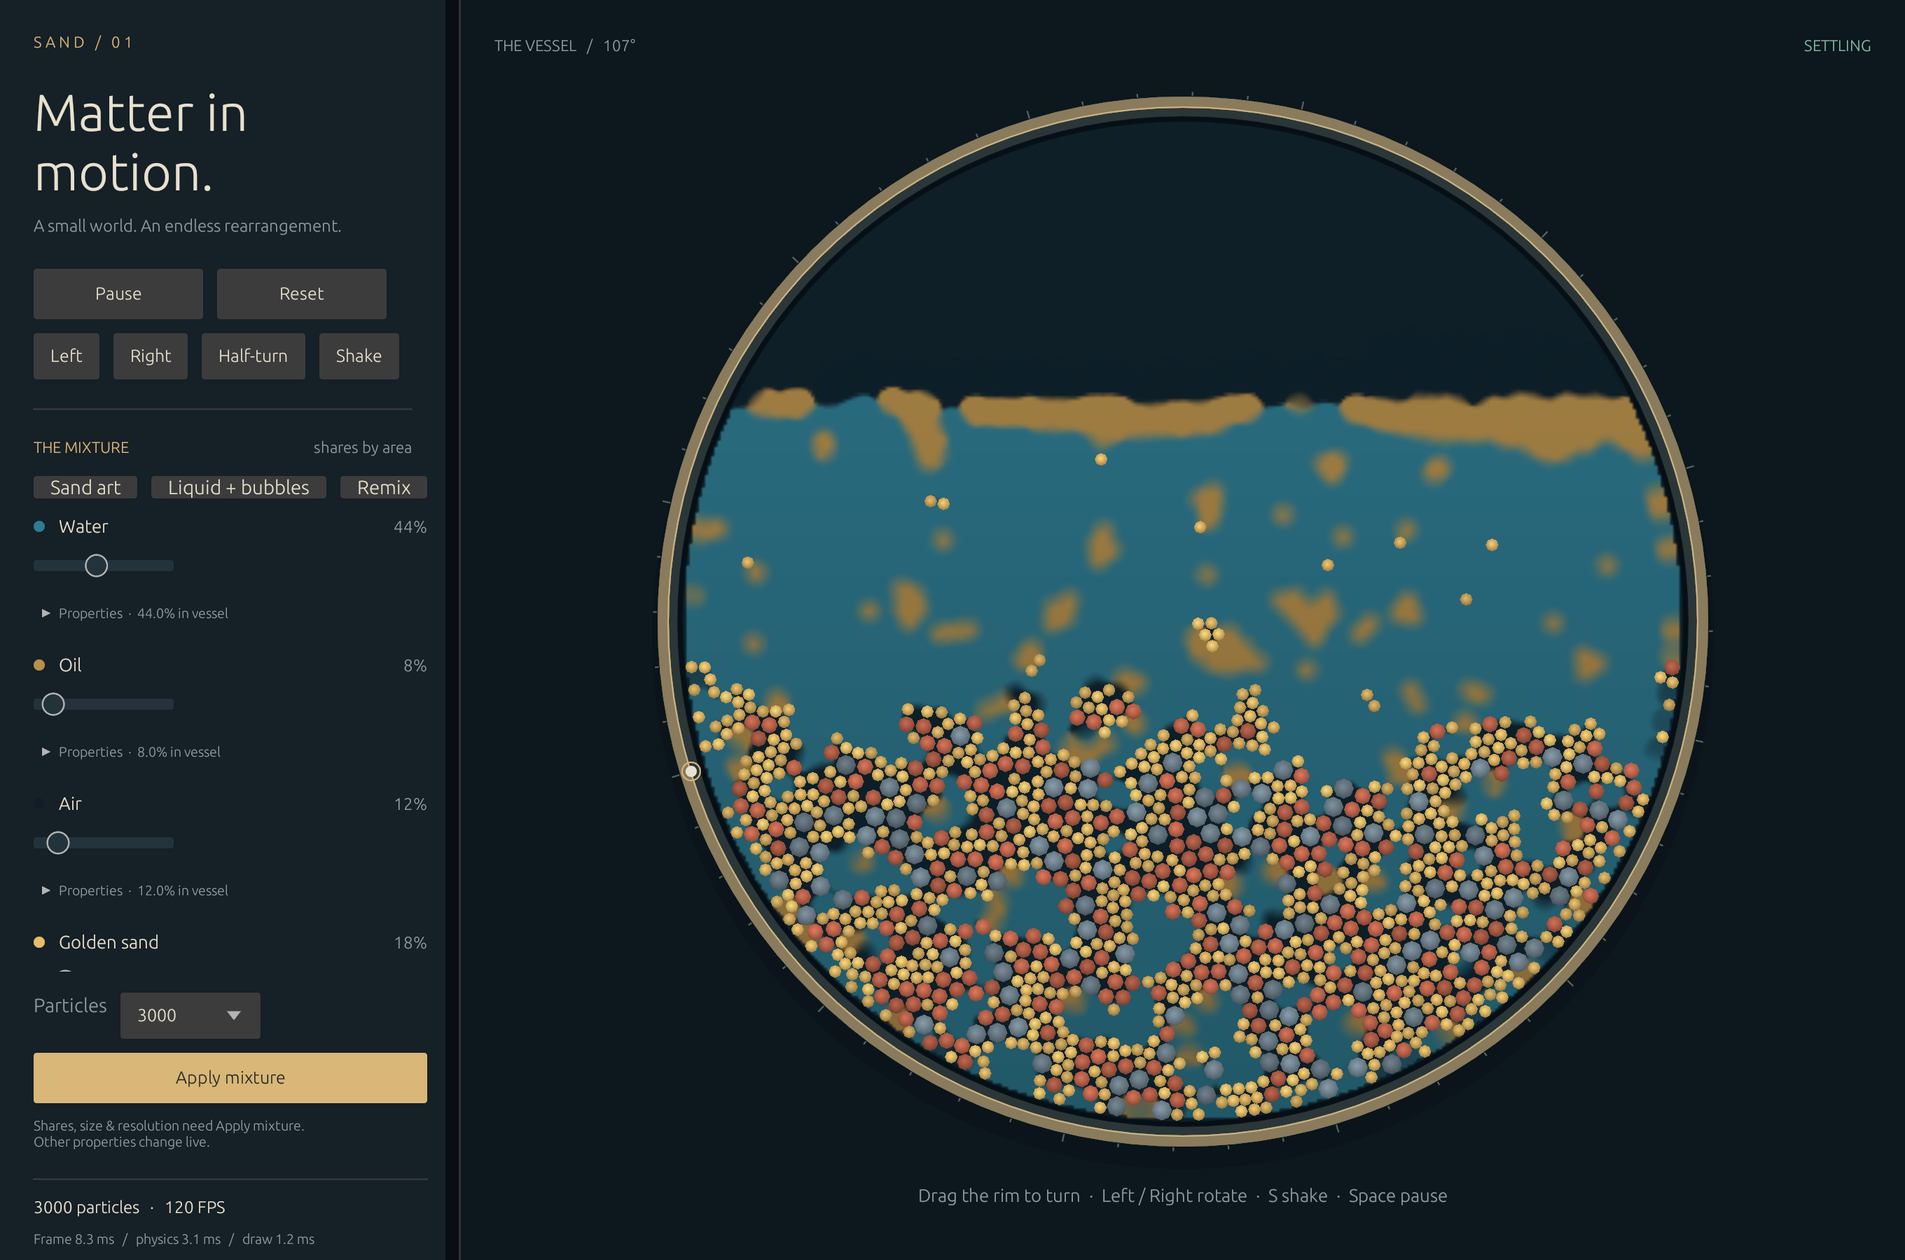
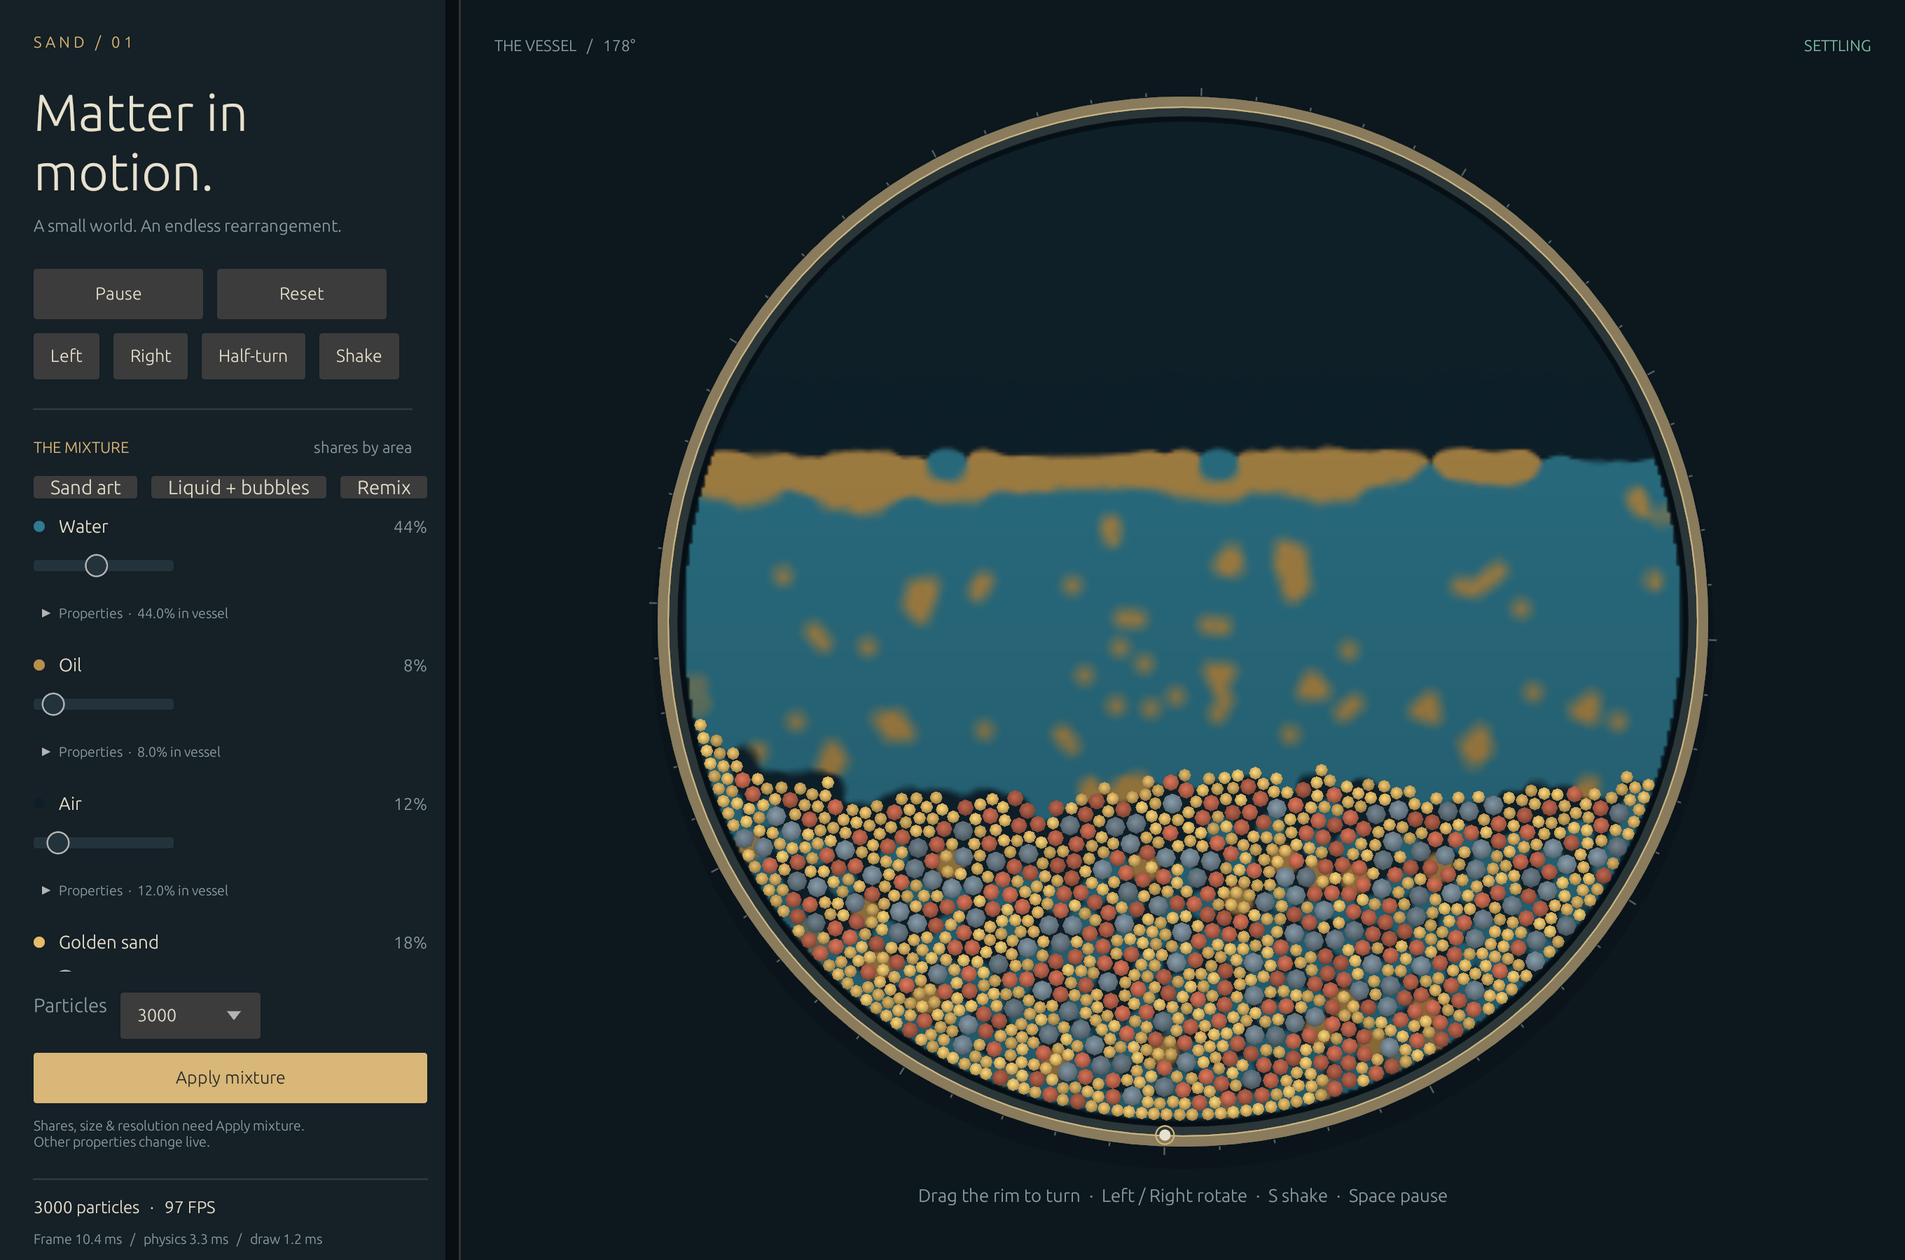
fix: decouple grains from the coarse fluid pressure lattice

diff --git a/src/simulation.rs b/src/simulation.rs
@@ -35,6 +35,7 @@ pub struct Simulation {
     pub time: f32,
     previous: Vec<Vec2>,
     inverse_mass: Vec<f32>,
+    pressure_inverse_mass: Vec<f32>,
     volume: Vec<f32>,
     density: Vec<f32>,
     gradient: Vec<Vec2>,
@@ -99,6 +100,7 @@ impl Simulation {
             time: 0.0,
             previous: Vec::new(),
             inverse_mass: Vec::new(),
+            pressure_inverse_mass: Vec::new(),
             volume: Vec::new(),
             density: Vec::new(),
             gradient: Vec::new(),
@@ -126,6 +128,7 @@ impl Simulation {
         let n = self.particles.len();
         self.previous.resize(n, Vec2::ZERO);
         self.inverse_mass.resize(n, 1.0);
+        self.pressure_inverse_mass.resize(n, 0.0);
         self.volume.resize(n, 1.0);
         self.density.resize(n, 0.0);
         self.gradient.resize(n, Vec2::ZERO);
@@ -147,6 +150,13 @@ impl Simulation {
         for (i, p) in self.particles.iter().enumerate() {
             self.volume[i] = (p.radius / self.base_radius).powi(2);
             self.inverse_mass[i] = 1.0 / (self.materials[p.material].density * self.volume[i]);
+            // Grains are immersed boundaries for the fluid pressure projection,
+            // not movable nodes of its coarse incompressibility lattice.
+            self.pressure_inverse_mass[i] = if self.materials[p.material].phase == Phase::Solid {
+                0.0
+            } else {
+                self.inverse_mass[i]
+            };
         }
     }
 
@@ -221,12 +231,17 @@ impl Simulation {
             let env = self.environment[i];
             if env.y > 0.0001 {
                 let rho = self.materials[self.particles[i].material].density;
-                // Density constraints already support the mixture hydrostatically.
-                // Add a *contrast* force, zero at equal density, rather than a
-                // second Archimedes lift that would make dense sand float.
-                let contrast =
-                    (1.0 - env.x / env.y / rho).clamp(-2.0, 1.0) * (env.y / 0.8).min(1.0);
-                self.buoyancy[i] = GRAVITY * contrast;
+                let submerged = (env.y / 0.8).min(1.0);
+                let density_ratio = (env.x / env.y / rho).min(3.0);
+                self.buoyancy[i] =
+                    if self.materials[self.particles[i].material].phase == Phase::Solid {
+                        // The grain no longer receives a second hydrostatic lift
+                        // from fluid positional projection: apply Archimedes here.
+                        -GRAVITY * density_ratio * submerged
+                    } else {
+                        // Fluid phases remain part of the shared pressure solve.
+                        GRAVITY * (1.0 - density_ratio).clamp(-2.0, 1.0) * submerged
+                    };
                 self.acceleration[i] += self.buoyancy[i];
             }
         }
@@ -299,8 +314,8 @@ impl Simulation {
             let gj = -grad * self.volume[i];
             self.gradient[i] += gi;
             self.gradient[j] += gj;
-            self.denominator[i] += self.inverse_mass[j] * gi.length_squared();
-            self.denominator[j] += self.inverse_mass[i] * gj.length_squared();
+            self.denominator[i] += self.pressure_inverse_mass[j] * gi.length_squared();
+            self.denominator[j] += self.pressure_inverse_mass[i] * gj.length_squared();
         }
         for i in 0..self.particles.len() {
             let phase = self.materials[self.particles[i].material].phase;
@@ -314,7 +329,7 @@ impl Simulation {
             };
             self.lambda[i] = -stiffness * c
                 / (self.denominator[i]
-                    + self.inverse_mass[i] * self.gradient[i].length_squared()
+                    + self.pressure_inverse_mass[i] * self.gradient[i].length_squared()
                     + 80.0);
         }
         for &(i, j) in &self.pairs {
@@ -322,8 +337,8 @@ impl Simulation {
             let q = (1.0 - r / self.support).max(0.0);
             let grad = direction * (-2.0 * q / self.support / rest);
             let f = grad * (self.lambda[i] * self.volume[j] + self.lambda[j] * self.volume[i]);
-            self.delta[i] += f * self.inverse_mass[i];
-            self.delta[j] -= f * self.inverse_mass[j];
+            self.delta[i] += f * self.pressure_inverse_mass[i];
+            self.delta[j] -= f * self.pressure_inverse_mass[j];
             let a = &self.materials[self.particles[i].material];
             let b = &self.materials[self.particles[j].material];
             if self.particles[i].material == self.particles[j].material
@@ -356,20 +371,24 @@ impl Simulation {
             let (i, j) = self.pairs[k];
             let a = self.materials[self.particles[i].material].phase;
             let b = self.materials[self.particles[j].material].phase;
-            let factor = if a == Phase::Solid && b == Phase::Solid {
-                1.0
-            } else if a == Phase::Solid || b == Phase::Solid {
-                0.8
+            let both_grains = a == Phase::Solid && b == Phase::Solid;
+            let (contact_distance, wi) = if both_grains {
+                (
+                    self.particles[i].radius + self.particles[j].radius,
+                    self.inverse_mass[i] / (self.inverse_mass[i] + self.inverse_mass[j]),
+                )
+            } else if a == Phase::Solid {
+                // A fluid parcel is a quadrature point, not a rigid bead with
+                // its own collision radius. Move it out of the grain only.
+                (self.particles[i].radius, 0.0)
+            } else if b == Phase::Solid {
+                (self.particles[j].radius, 1.0)
             } else {
-                0.0
-            };
-            if factor == 0.0 {
                 continue;
-            }
+            };
             let (dir, r) = self.direction(i, j);
-            let overlap = (self.particles[i].radius + self.particles[j].radius) * factor - r;
+            let overlap = contact_distance - r;
             if overlap > 0.0 {
-                let wi = self.inverse_mass[i] / (self.inverse_mass[i] + self.inverse_mass[j]);
                 let ci = dir * (overlap * wi * 0.95).min(self.particles[i].radius * 0.4);
                 let cj = dir * (overlap * (1.0 - wi) * 0.95).min(self.particles[j].radius * 0.4);
                 self.particles[i].position += ci;

diff --git a/tests/physics.rs b/tests/physics.rs
@@ -152,13 +152,6 @@ fn granular_bed_settles_and_remains_still() {
 }
 
 #[test]
-fn neutrally_dense_grain_gets_no_extra_buoyancy_force() {
-    let mut sim = buoyancy_fixture(Phase::Liquid, 1.0);
-    let acceleration = sim.accelerations(Motion::default());
-    assert!((acceleration[0] - Vec2::new(0.0, -1.8)).length() < 0.001);
-}
-
-#[test]
 fn sand_heavier_than_water_sinks_in_a_dense_vessel() {
     let mut recipe = Recipe::balanced();
     recipe.budget = 400;
@@ -302,5 +295,85 @@ fn sparse_fluid_pressure_does_not_pull_noncontacting_grains_together() {
     assert!(
         after >= separation - 1e-6,
         "fluid tension attracted grains: {separation} -> {after}"
+    );
+}
+
+#[test]
+fn balanced_mixture_does_not_form_a_suspended_grain_scaffold() {
+    let mut recipe = Recipe::balanced();
+    recipe.budget = 1200;
+    let mut sim = Simulation::new(&recipe).unwrap();
+    for step in 0..1200 {
+        let t = step as f32 / 120.0;
+        let motion = if step < 180 {
+            Motion {
+                angular_velocity: 1.6,
+                shake: Vec2::new(7.0 * (t * 37.0).sin(), 4.5 * (t * 29.0).cos()),
+            }
+        } else {
+            Motion::default()
+        };
+        sim.step(1.0 / 120.0, motion);
+    }
+    let grains: Vec<_> = sim
+        .particles
+        .iter()
+        .filter(|p| sim.materials[p.material].phase == Phase::Solid)
+        .collect();
+    let suspended = grains
+        .iter()
+        .filter(|p| p.position.y > -0.3 && p.position.length() < 0.9)
+        .count();
+    assert!(
+        suspended as f32 / (grains.len() as f32) < 0.15,
+        "dense fluid held {suspended}/{} heavy grains in an open suspended scaffold",
+        grains.len()
+    );
+}
+
+#[test]
+fn fully_submerged_equal_density_grain_has_no_net_gravity() {
+    let mut sim = buoyancy_fixture(Phase::Liquid, 1.0);
+    let acceleration = sim.accelerations(Motion::default());
+    assert!(
+        acceleration[0].length() < 0.001,
+        "neutrally buoyant grain has residual acceleration {:?}",
+        acceleration[0]
+    );
+}
+
+#[test]
+fn fluid_sample_in_gap_does_not_wedge_grains_apart() {
+    let mut recipe = Recipe::balanced();
+    recipe.budget = 100;
+    let mut sim = Simulation::new(&recipe).unwrap();
+    for material in &mut sim.materials {
+        material.viscosity = 0.0;
+        material.friction = 0.0;
+        material.density = 1.0;
+    }
+    let radius = sim.base_radius;
+    let grain = |x| Particle {
+        position: Vec2::new(x, 0.0),
+        velocity: Vec2::ZERO,
+        material: 3,
+        radius,
+    };
+    sim.particles = vec![
+        grain(-1.05 * radius),
+        grain(1.05 * radius),
+        Particle {
+            position: Vec2::ZERO,
+            velocity: Vec2::ZERO,
+            material: 0,
+            radius,
+        },
+    ];
+    let gap_before = sim.particles[1].position.x - sim.particles[0].position.x;
+    sim.step(1.0 / 120.0, Motion::default());
+    let gap_after = sim.particles[1].position.x - sim.particles[0].position.x;
+    assert!(
+        (gap_after - gap_before).abs() < 1e-5,
+        "a fluid quadrature sample wedged the grains apart: {gap_before} -> {gap_after}"
     );
 }

diff --git a/docs/performance.md b/docs/performance.md
@@ -1,6 +1,6 @@
 # Measured performance
 
-The initial measurements below precede the grain-sticking correction. The follow-up validation at the end records the corrected version.
+The initial measurements below are retained as history. The latest immersed-grain coupling validation is recorded at the end; earlier higher-count timings have not been rerun for that model.
 
 Measured 2026-11-09 on this development machine: macOS / Apple Silicon (aarch64), Rust 1.90.0, Bevy 0.14.2. Results describe this host under its current load. The application uses a release build, a 1/120-second fixed step and two constraint iterations. The default window is 1360 × 900 logical pixels; the captured Retina render is 2720 × 1800.
 
@@ -62,3 +62,22 @@ The corrected solver removes three sources of artificial sticking: friction acro
 The full release suite now passes **27 tests**, including five additional grain cases: unloaded gap, barely loaded contact, noncontact dry viscosity, loaded-contact friction, and isolated fluid-mediated attraction. The four defect cases were observed failing before their fixes; the loaded-contact guard verifies that sand still has friction under load. Formatting and all-target compilation also pass. A focused independent review approved the contact-load accounting and identified no new actionable issue; it also confirmed the tensile fluid-pressure path.
 
 A fresh 900-frame scripted application run at **3,000 particles** measured **8.334 ms median / 120.0 FPS**, **8.467 ms p95**, and **3.163 ms median physics per displayed frame** after warm-up. All particles remained finite and contained; 0.050 seconds of cumulative startup/lag time were reported. See the [raw follow-up report](benchmarks/2026-11-09-grain-contact-fix.txt). The larger-count results above were not rerun for this correction.
+
+
+## Latest: immersed-grain fluid coupling
+
+The remaining suspended-scaffold artifact required changing the fluid/grain coupling, rather than another friction adjustment. The current solver treats grains as immersed pressure boundaries, uses fluid point samples at grain surfaces, and supplies solid Archimedes buoyancy and two-way viscous drag. See the [implementation notes](implementation-notes.md) for the approximation and its pressure-momentum limitation.
+
+The full deterministic balanced-mixture regression now has **9/446 grains** in the upper/open region after settling, versus **128/446** with the prior coupling. All **29 tests** pass, including neutral buoyancy, no fluid-sample wedging, full-mixture settling and the earlier contact regressions. All-target compilation and formatting also pass.
+
+The latest 1,500-frame scripted windowed test at **3,000 particles** measured **14.385 ms median / 69.5 FPS**, **20.567 ms p95**, and **5.880 ms median physics per displayed frame**, with 1,350 nonpaused samples after warm-up. All particles remained finite and contained. It reported 20.758 simulated seconds and 0.067 seconds cumulative lost time. This meets the median 60 FPS target, with some slower displayed frames; it does not reproduce the earlier version's 120 FPS result in this run.
+
+The sequential headless 600-frame-per-workload measurement of the same model still meets the proposed physics budget:
+
+| Workload | Median ms per 60 Hz equivalent | p95 ms | Max ms |
+| :--- | ---: | ---: | ---: |
+| Settling | 6.389 | 6.922 | 7.186 |
+| Rotation | 5.651 | 5.878 | 6.257 |
+| Shaking | 5.864 | 6.462 | 6.750 |
+
+Raw [windowed](benchmarks/2026-11-09-immersed-grains-windowed.txt), [solver](benchmarks/2026-11-09-immersed-grains-solver.txt), and [full-mixture settling](benchmarks/2026-11-09-full-mixture-settling.txt) reports are included. The visible screenshot now shows this coupling. Higher-count application settings remain exploratory and have not been reprofiled after this change.

diff --git a/docs/implementation-notes.md b/docs/implementation-notes.md
@@ -37,3 +37,16 @@ The user's observation that solids stuck together led to isolated behavior tests
 The solver now records actual grain-contact positional corrections and uses their normal load to cap friction, preserving pair momentum and preventing reversal of tangential slip. Viscosity skips solid-solid pairs. Density constraints resist compression only; explicit fluid/gas cohesion stays separate from pressure. No defaults were weakened to hide the defects. Independent review approved the contact accounting and confirmed the residual tensile pressure mechanism before its one-line correction.
 
 All 27 tests pass, including the existing settling and dense-mixture checks. The updated windowed test still measures about 120 FPS at the default 3,000 particles.
+
+
+## Pressure-driven aggregation follow-up
+
+The user still observed open grain networks in liquid after the isolated friction/attraction fixes. Twelve controlled temporary solver variants showed that disabling friction, viscosity or explicit phase cohesion did not remove this behavior. Removing direct grain displacement by the fluid pressure lattice did. The coarse fluid samples were also acting as finite rigid beads: one sample between two noncontacting grains changed their separation from 0.1795 to 0.2612 in one step.
+
+The new coupling treats grains as immersed boundaries with zero inverse mass in the **fluid pressure projection only**. Physical grain inverse masses remain active for grain contacts, drag and force reactions. Grain volumes still contribute to density and displace fluid samples; fluid exclusion uses the actual grain radius and moves the fluid point only. The pressure denominator consistently uses these projection weights. Explicit Archimedes buoyancy now supplies solid hydrostatic response, replacing the old supplemental density-contrast term; equal-density submerged grains receive zero net gravity. Fluid-phase coupling remains unchanged.
+
+The original neutral-density force-pass test assumed the former positional pressure lift and was replaced by the physical zero-net-gravity regression. New full-recipe settling and narrow-gap no-wedging cases were observed failing before the change. In the actual deterministic 1,200-particle balanced-mixture check, the upper/open region held **128/446 grains before** and **9/446 afterward** after a stir and ten simulated seconds. The regression allows a modest transient remainder, rather than requiring every grain to settle identically.
+
+An independent focused review approved the approximate coupling and independently passed 12 quick physics checks. Its minor documentation issue was corrected; the gap test was renamed to match its measured no-wedging assertion. The complete release suite passes **29 tests**, including the four longer scenes, and all-target compilation passes. The final screenshot shows the actual application with a settled bed instead of the suspended scaffold.
+
+The approximation deliberately does not exchange exact positional pressure impulses between fluid and grains; buoyancy and viscous drag retain equal/opposite reactions. This tradeoff addresses under-resolved fluid/grain coupling at interactive particle counts and is documented in the README. It should not be represented as fully conservative rigid/fluid pressure dynamics.

diff --git a/README.md b/README.md
@@ -28,7 +28,11 @@ Mixture shares are relative **occupied areas**, not masses or particle counts. D
 
 ## Physics and rendering
 
-The headless core uses a fixed 1/120-second step, reusable uniform spatial bins and position-based density/contact constraints. Materials have separate identities, density, viscosity, radius and friction. Liquids resist compression, gas parcels are more compressible and cohesive, and grains resolve contacts with friction. Grain friction acts only at actual contact and is limited by the compressive contact load. Solid grains have no viscous connection to each other, and fluid pressure cannot attract them through under-filled regions; phase cohesion is handled separately. Local density-contrast forces supplement the pressure solver, with equal/opposite neighbor reactions. Contact support and a density-contrast settling check ensure heavier-than-water sand sinks instead of receiving a second full buoyancy lift.
+The headless core uses a fixed 1/120-second step, reusable uniform spatial bins and position-based fluid/contact constraints. Materials have separate identities, density, viscosity, radius and friction. Liquids resist compression, gas parcels are more compressible and cohesive, and grains resolve contacts with load-limited friction. Solid grains have no viscous connection to each other. Phase cohesion is separate from compression pressure.
+
+Grains are **immersed boundaries** for the liquid/gas pressure solve: their volumes contribute to fluid density, while pressure projection moves fluid samples around the grains. Fluid samples are quadrature points, so their sampling radius does not wedge grains apart across narrow gaps. Grain motion comes from gravity, grain contacts, glass drag, and two-way fluid drag and Archimedes buoyancy. Equal-density submerged grains have zero net gravity. This avoids mechanically bracing grains in the coarse fluid sampling lattice, which previously left open grain networks suspended in the liquid.
+
+This low-speed coupling approximates hydrodynamic pressure with buoyancy and drag. Their neighbor reactions exchange equal/opposite momentum before existing clamps, but the fluid positional projection does **not** transfer an exact pressure impulse back to grains. It is intended for interactive settling rather than quantitative fluid/rigid-body dynamics.
 
 Rotation drives bounded wall/glass drag; a smooth circular boundary alone would barely stir its contents. Shaking applies bounded translational inertial acceleration in the vessel's frame. This is a visually plausible 2D physical toy: it approximates phase interfaces, gas pressure, buoyancy and shallow glass coupling. It is not a calibrated CFD or thermodynamic model; no combustion, heat, dissolved gas or phase changes are modeled. Same-phase cohesion and unlike-liquid repulsion are local approximations, not a quantitative surface-tension model.
 
